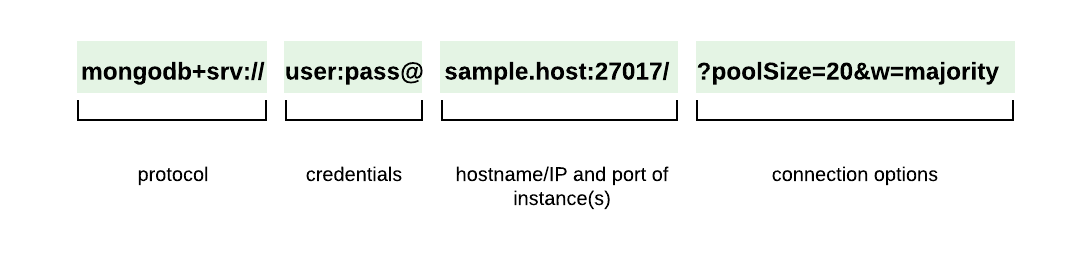
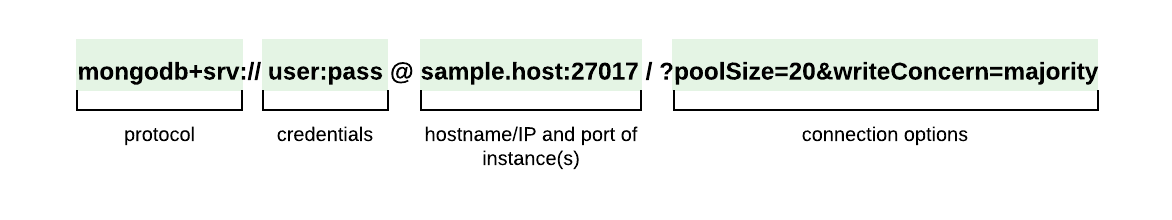
DOCSP-13901: use writeConcern instead of w (#131)

diff --git a/source/code-snippets/crud/theaters.js b/source/code-snippets/crud/theaters.js
@@ -2,7 +2,7 @@ const { MongoClient } = require("mongodb");
 
 // Replace the following string with your MongoDB deployment's connection string.
 const uri =
-  "mongodb+srv://<user>:<password>@<cluster-url>?w=majority";
+  "mongodb+srv://<user>:<password>@<cluster-url>?writeConcern=majority";
 const client = new MongoClient(uri);
 
 async function proximity(theaters) {

diff --git a/source/code-snippets/crud/cursor.js b/source/code-snippets/crud/cursor.js
@@ -3,7 +3,7 @@ const stream = require("stream");
 
 // Replace the following string with your MongoDB deployment's connection string.
 const uri =
-  "mongodb+srv://<user>:<password>@<cluster-url>?w=majority";
+  "mongodb+srv://<user>:<password>@<cluster-url>?writeConcern=majority";
 const client = new MongoClient(uri);
 
 async function forEachIteration(collection) {

diff --git a/source/code-snippets/crud/startrek.js b/source/code-snippets/crud/startrek.js
@@ -2,7 +2,7 @@ const { MongoClient } = require("mongodb");
 
 // Replace the following string with your MongoDB deployment's connection string.
 const uri =
-  "mongodb+srv://<user>:<password>@<cluster-url>?w=majority";
+  "mongodb+srv://<user>:<password>@<cluster-url>?writeConcern=majority";
 const client = new MongoClient(uri);
 
 async function word(movies) {

diff --git a/source/code-snippets/crud/pizza.js b/source/code-snippets/crud/pizza.js
@@ -2,7 +2,7 @@ const { MongoClient } = require("mongodb");
 
 // Replace the following string with your MongoDB deployment's connection string.
 const uri =
-  "mongodb+srv://<user>:<password>@<cluster-url>?w=majority";
+  "mongodb+srv://<user>:<password>@<cluster-url>?writeConcern=majority";
 const client = new MongoClient(uri);
 
 function sleep(ms) {

diff --git a/source/code-snippets/indexes/compound.js b/source/code-snippets/indexes/compound.js
@@ -3,7 +3,7 @@ const { MongoClient } = require("mongodb");
 // Replace the following with your MongoDB deployment's connection
 // string.
 const uri =
-  "mongodb+srv://<user>:<password>@<cluster-url>?w=majority";
+  "mongodb+srv://<user>:<password>@<cluster-url>?writeConcern=majority";
 
 const client = new MongoClient(uri);
 

diff --git a/source/code-snippets/indexes/geo.js b/source/code-snippets/indexes/geo.js
@@ -3,7 +3,7 @@ const { MongoClient } = require("mongodb");
 // Replace the following with your MongoDB deployment's connection
 // string.
 const uri =
-  "mongodb+srv://<user>:<password>@<cluster-url>?w=majority";
+  "mongodb+srv://<user>:<password>@<cluster-url>?writeConcern=majority";
 
 const client = new MongoClient(uri);
 

diff --git a/source/code-snippets/indexes/multikey.js b/source/code-snippets/indexes/multikey.js
@@ -3,7 +3,7 @@ const { MongoClient } = require("mongodb");
 // Replace the following with your MongoDB deployment's connection
 // string.
 const uri =
-  "mongodb+srv://<user>:<password>@<cluster-url>?w=majority";
+  "mongodb+srv://<user>:<password>@<cluster-url>?writeConcern=majority";
 
 const client = new MongoClient(uri);
 

diff --git a/source/code-snippets/indexes/single-field.js b/source/code-snippets/indexes/single-field.js
@@ -3,7 +3,7 @@ const { MongoClient } = require("mongodb");
 // Replace the following with your MongoDB deployment's connection
 // string.
 const uri =
-  "mongodb+srv://<user>:<password>@<cluster-url>?w=majority";
+  "mongodb+srv://<user>:<password>@<cluster-url>?writeConcern=majority";
 
 const client = new MongoClient(uri);
 

diff --git a/source/code-snippets/indexes/text.js b/source/code-snippets/indexes/text.js
@@ -3,7 +3,7 @@ const { MongoClient } = require("mongodb");
 // Replace the following with your MongoDB deployment's connection
 // string.
 const uri =
-  "mongodb+srv://<user>:<password>@<cluster-url>?w=majority";
+  "mongodb+srv://<user>:<password>@<cluster-url>?writeConcern=majority";
 
 const client = new MongoClient(uri);
 

diff --git a/source/code-snippets/indexes/unique.js b/source/code-snippets/indexes/unique.js
@@ -3,7 +3,7 @@ const { MongoClient } = require("mongodb");
 // Replace the following with your MongoDB deployment's connection
 // string.
 const uri =
-  "mongodb+srv://<user>:<password>@<cluster-url>?w=majority";
+  "mongodb+srv://<user>:<password>@<cluster-url>?writeConcern=majority";
 
 const client = new MongoClient(uri);
 

diff --git a/source/code-snippets/usage-examples/bulkWrite.js b/source/code-snippets/usage-examples/bulkWrite.js
@@ -2,7 +2,7 @@ const { MongoClient } = require("mongodb");
 
 // Replace the uri string with your MongoDB deployment's connection string.
 const uri =
-  "mongodb+srv://<user>:<password>@<cluster-url>?w=majority";
+  "mongodb+srv://<user>:<password>@<cluster-url>?writeConcern=majority";
 
 const client = new MongoClient(uri);
 

diff --git a/source/code-snippets/usage-examples/changeStream.js b/source/code-snippets/usage-examples/changeStream.js
@@ -2,7 +2,7 @@ const { MongoClient } = require("mongodb");
 
 // Replace the uri string with your MongoDB deployment's connection string.
 const uri =
-  "mongodb+srv://<user>:<password>@<cluster-url>?w=majority";
+  "mongodb+srv://<user>:<password>@<cluster-url>?writeConcern=majority";
 
 const client = new MongoClient(uri);
 
